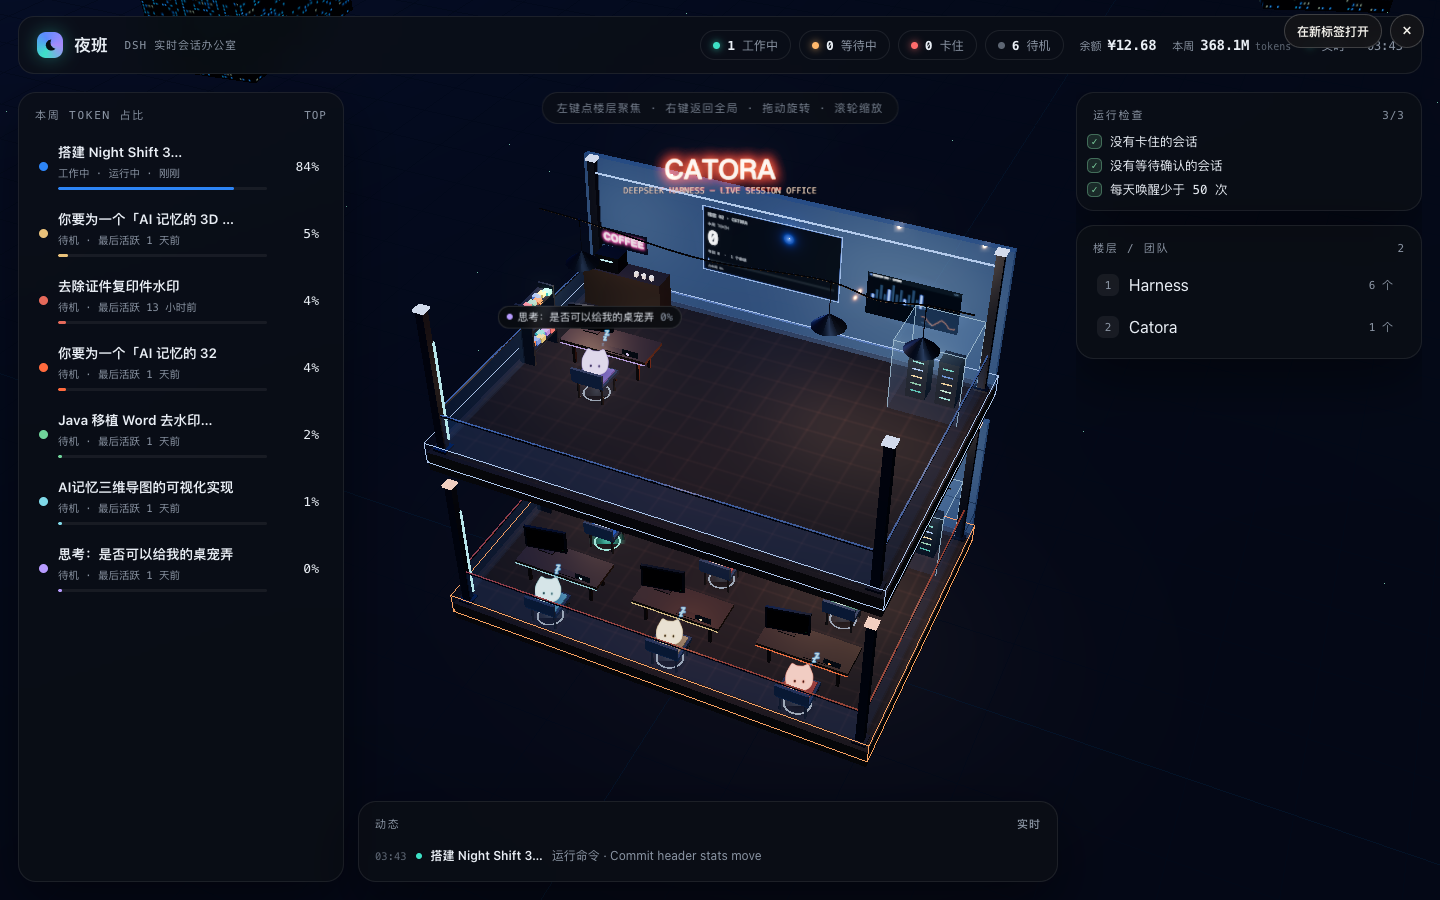
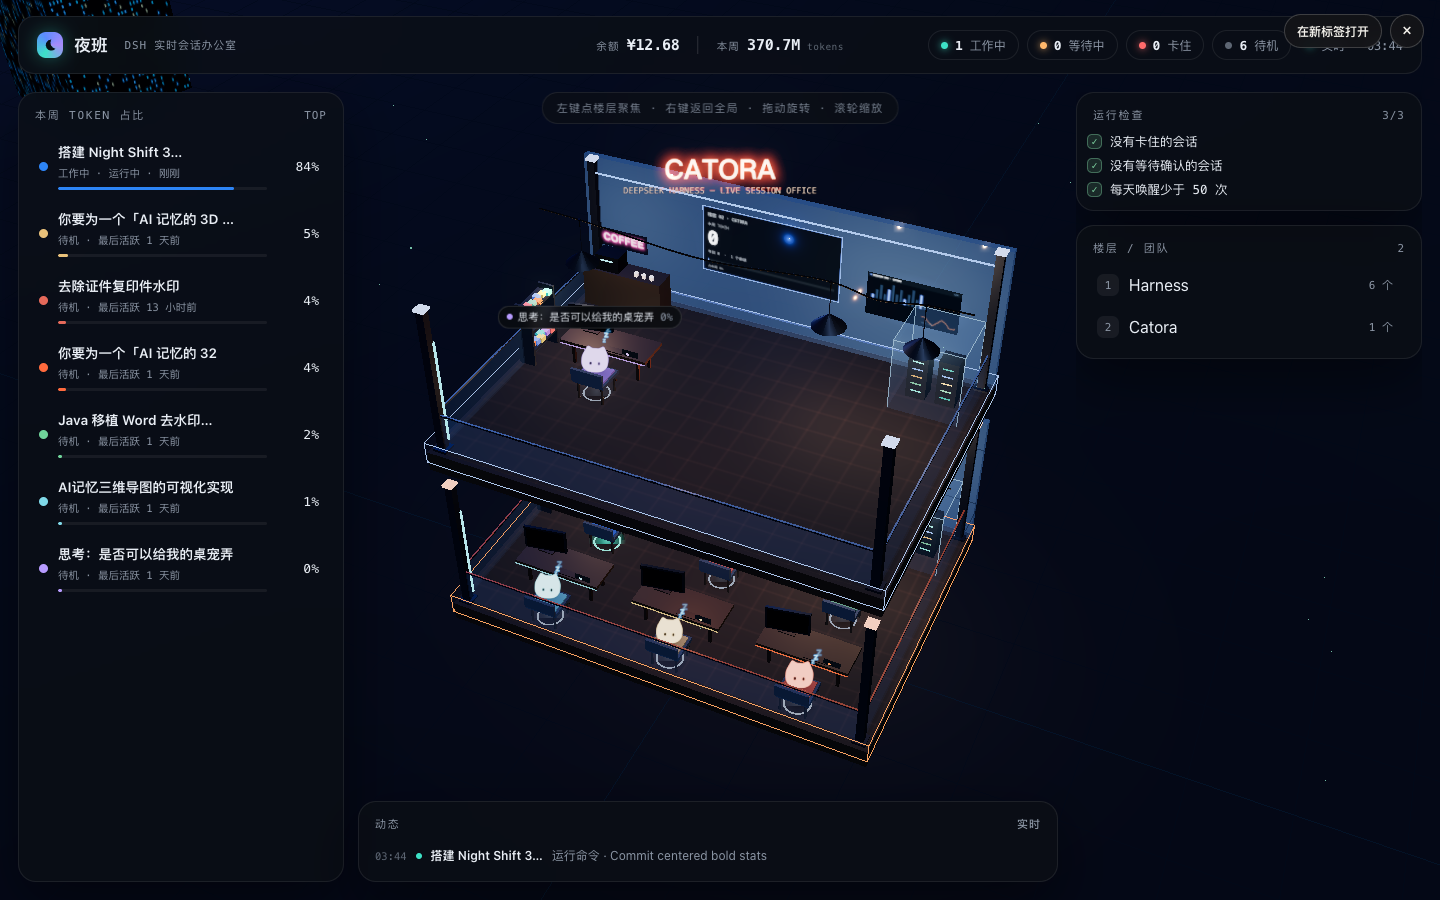
style(hud): 顶栏余额/TOKEN 数字加粗并居中

diff --git a/lib/panel.html b/lib/panel.html
@@ -55,10 +55,11 @@
   .pill.stuck i{background:var(--red);box-shadow:0 0 8px var(--red)}
   #clock{font-family:var(--mono);font-size:12px;color:var(--dim);display:flex;align-items:center;gap:8px;white-space:nowrap}
   #clock i{width:6px;height:6px;border-radius:50%;background:var(--acc);box-shadow:0 0 8px var(--acc);animation:breathe 2.4s ease-in-out infinite}
-  #headStats{display:flex;align-items:center;gap:16px;white-space:nowrap}
-  .hstat{display:flex;align-items:baseline;gap:6px;font-family:var(--mono);font-size:11px;color:var(--dim)}
-  .hstat b{font-family:var(--mono);font-size:14px;font-weight:650;letter-spacing:-.3px;color:var(--ink)}
-  .hstat small{font-family:var(--mono);font-size:10px;color:var(--dim-2);letter-spacing:0}
+  #headStats{position:absolute;left:50%;top:50%;transform:translate(-50%,-50%);display:flex;align-items:center;gap:18px;white-space:nowrap;pointer-events:auto}
+  .hstat{display:flex;align-items:baseline;gap:7px;font-family:var(--mono);font-size:10.5px;letter-spacing:1.2px;color:var(--dim)}
+  .hstat + .hstat{border-left:1px solid var(--line-2);padding-left:18px}
+  .hstat b{font-family:var(--mono);font-size:15px;font-weight:800;letter-spacing:-.2px;color:var(--ink);font-variant-numeric:tabular-nums}
+  .hstat small{font-family:var(--mono);font-size:9.5px;color:var(--dim-2);letter-spacing:.4px}
   @media (max-width:1180px){.hstat.tokens{display:none}}
   @media (max-width:980px){#headStats{display:none}}
   @keyframes breathe{0%,100%{opacity:.45}50%{opacity:1}}
@@ -232,11 +233,11 @@
       <svg class="icon moon" viewBox="0 0 16 16" fill="currentColor" aria-hidden="true"><path d="M9.6 1.8a6.3 6.3 0 1 0 4.6 10.4A6.9 6.9 0 0 1 9.6 1.8Z"/></svg>
       <svg class="icon sun" viewBox="0 0 16 16" fill="none" stroke="currentColor" stroke-width="1.6" stroke-linecap="round" aria-hidden="true"><circle cx="8" cy="8" r="2.6" fill="currentColor" stroke="none"/><path d="M8 1v1.6M8 13.4V15M1 8h1.6M13.4 8H15M2.9 2.9l1.1 1.1M12 12l1.1 1.1M13.1 2.9 12 4M4 12l-1.1 1.1"/></svg>
     </button><b>夜班</b><span>DSH 实时会话办公室</span></div>
-    <div class="pills" id="pills"></div>
     <div id="headStats">
       <div class="hstat" title="DeepSeek 平台余额"><span>余额</span><b id="headBalance">—</b></div>
       <div class="hstat tokens" title="本周 token 用量"><span>本周</span><b id="headTokens">—</b><small>tokens</small></div>
     </div>
+    <div class="pills" id="pills"></div>
     <div id="clock"><i></i><span>实时</span></div>
   </header>
 

diff --git a/panel-src/index.html b/panel-src/index.html
@@ -55,10 +55,11 @@
   .pill.stuck i{background:var(--red);box-shadow:0 0 8px var(--red)}
   #clock{font-family:var(--mono);font-size:12px;color:var(--dim);display:flex;align-items:center;gap:8px;white-space:nowrap}
   #clock i{width:6px;height:6px;border-radius:50%;background:var(--acc);box-shadow:0 0 8px var(--acc);animation:breathe 2.4s ease-in-out infinite}
-  #headStats{display:flex;align-items:center;gap:16px;white-space:nowrap}
-  .hstat{display:flex;align-items:baseline;gap:6px;font-family:var(--mono);font-size:11px;color:var(--dim)}
-  .hstat b{font-family:var(--mono);font-size:14px;font-weight:650;letter-spacing:-.3px;color:var(--ink)}
-  .hstat small{font-family:var(--mono);font-size:10px;color:var(--dim-2);letter-spacing:0}
+  #headStats{position:absolute;left:50%;top:50%;transform:translate(-50%,-50%);display:flex;align-items:center;gap:18px;white-space:nowrap;pointer-events:auto}
+  .hstat{display:flex;align-items:baseline;gap:7px;font-family:var(--mono);font-size:10.5px;letter-spacing:1.2px;color:var(--dim)}
+  .hstat + .hstat{border-left:1px solid var(--line-2);padding-left:18px}
+  .hstat b{font-family:var(--mono);font-size:15px;font-weight:800;letter-spacing:-.2px;color:var(--ink);font-variant-numeric:tabular-nums}
+  .hstat small{font-family:var(--mono);font-size:9.5px;color:var(--dim-2);letter-spacing:.4px}
   @media (max-width:1180px){.hstat.tokens{display:none}}
   @media (max-width:980px){#headStats{display:none}}
   @keyframes breathe{0%,100%{opacity:.45}50%{opacity:1}}
@@ -232,11 +233,11 @@
       <svg class="icon moon" viewBox="0 0 16 16" fill="currentColor" aria-hidden="true"><path d="M9.6 1.8a6.3 6.3 0 1 0 4.6 10.4A6.9 6.9 0 0 1 9.6 1.8Z"/></svg>
       <svg class="icon sun" viewBox="0 0 16 16" fill="none" stroke="currentColor" stroke-width="1.6" stroke-linecap="round" aria-hidden="true"><circle cx="8" cy="8" r="2.6" fill="currentColor" stroke="none"/><path d="M8 1v1.6M8 13.4V15M1 8h1.6M13.4 8H15M2.9 2.9l1.1 1.1M12 12l1.1 1.1M13.1 2.9 12 4M4 12l-1.1 1.1"/></svg>
     </button><b>夜班</b><span>DSH 实时会话办公室</span></div>
-    <div class="pills" id="pills"></div>
     <div id="headStats">
       <div class="hstat" title="DeepSeek 平台余额"><span>余额</span><b id="headBalance">—</b></div>
       <div class="hstat tokens" title="本周 token 用量"><span>本周</span><b id="headTokens">—</b><small>tokens</small></div>
     </div>
+    <div class="pills" id="pills"></div>
     <div id="clock"><i></i><span>实时</span></div>
   </header>
 
